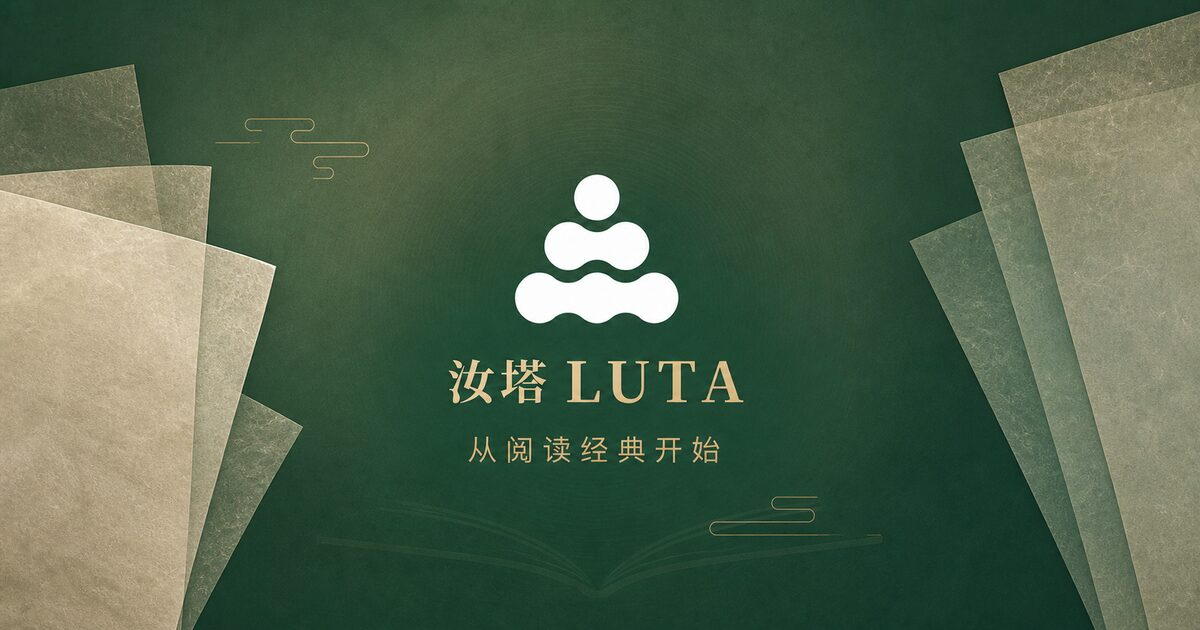
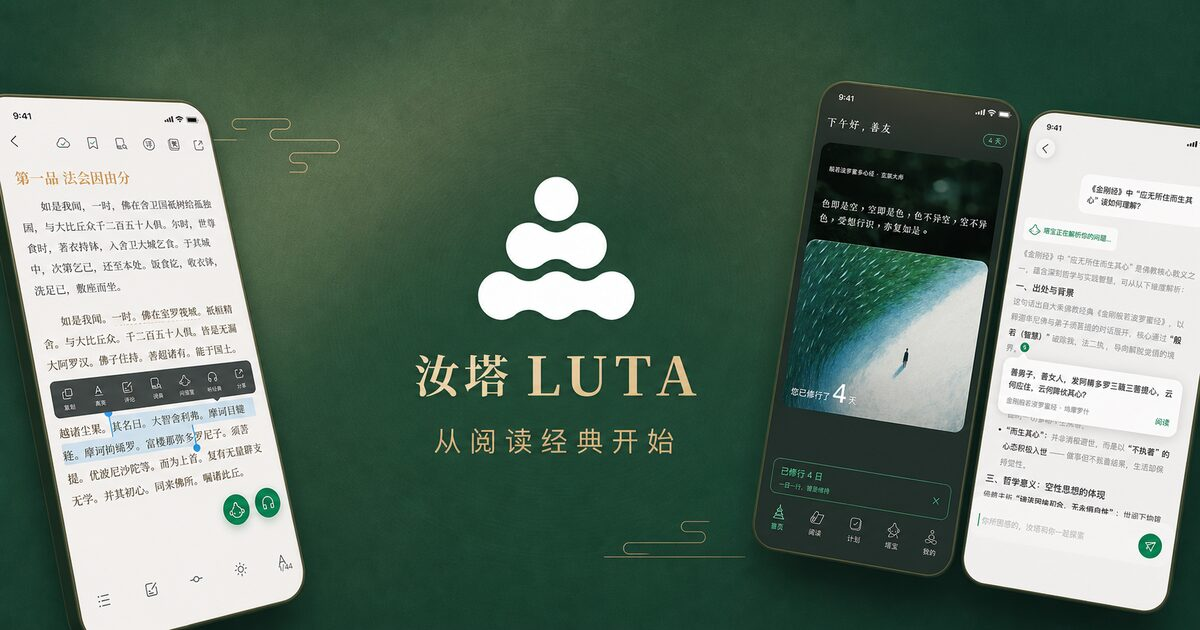
fix: use owner-selected social preview

diff --git a/docs/social-preview-asset.md b/docs/social-preview-asset.md
@@ -5,7 +5,7 @@
 - Public URL: `https://lutaai.com/luta-social-card-v1.jpg`
 - Canvas: `1200 × 630` pixels (`1.91:1`)
 - Encoding: progressive sRGB JPEG, quality 82, metadata stripped
-- Transfer budget: no more than `200 KiB`; current file is `88,907` bytes
+- Transfer budget: no more than `200 KiB`; current file is `101,178` bytes
 - Center-crop safety: the mark, product name, and message remain readable in the centered `630 × 630` crop used by compact link cards
 - Open Graph metadata declares the absolute HTTPS URL, MIME type, width, height, and alternative text
 - Cache policy: a material visual change must use a new versioned filename (`v2`, `v3`, and so on); do not overwrite the active metadata URL under the one-year immutable asset cache
@@ -14,15 +14,17 @@
 
 ## Creative provenance
 
-The product owner delegated the visual and export decision for this repair on 2026-09-02/03. The selected composition was generated with OpenAI's built-in image generation from this production brief:
+The product owner selected the supplied LUTA product-scene image on 2026-09-03. It shows the reading, daily-practice, and assisted-understanding screens around the centered LUTA mark and the message “从阅读经典开始”. This selection supersedes the earlier abstract card from the same repair branch.
 
-> Create a calm, premium social sharing card for 汝塔 LUTA. Use a deep pine-green editorial background with restrained paper texture, the centered LUTA mark, the exact text “汝塔 LUTA” and “从阅读经典开始” in warm antique gold, abstract rice-paper sheets at the edges, and a very subtle open-book silhouette. Keep all essential content inside a centered square-safe area. No phone mockups, screenshots, app-store buttons, people, extra copy, unrelated logos, bright gradients, or Pocket Fans imagery.
+- Selected source dimensions: `1731 × 909` pixels
+- Selected source size: `2,142,709` bytes
[3 lines of base64/hex data omitted]
 
[3 lines of base64/hex data omitted]
+The source ratio differs from `1200 × 630` by less than `0.03%`, so the production export retains the composition without meaningful content loss. The active asset is a metadata-stripped, progressive sRGB JPEG at quality 82. The historical PNG path uses the same composition with a 256-color palette and no dithering; it is `343,606` bytes and remains below its `400 KiB` compatibility budget.
 
-The generated source is intentionally not committed because it is a 2.3 MB working artifact. The committed JPEG is the delivery asset; the hashes and brief provide the durable provenance needed to reproduce or supersede it.
+The selected source is intentionally not committed because it is a 2.1 MB working artifact already represented by the optimized delivery files. Its dimensions and SHA-256 preserve the source identity needed to verify or supersede it.
 
 ## Verification
 
